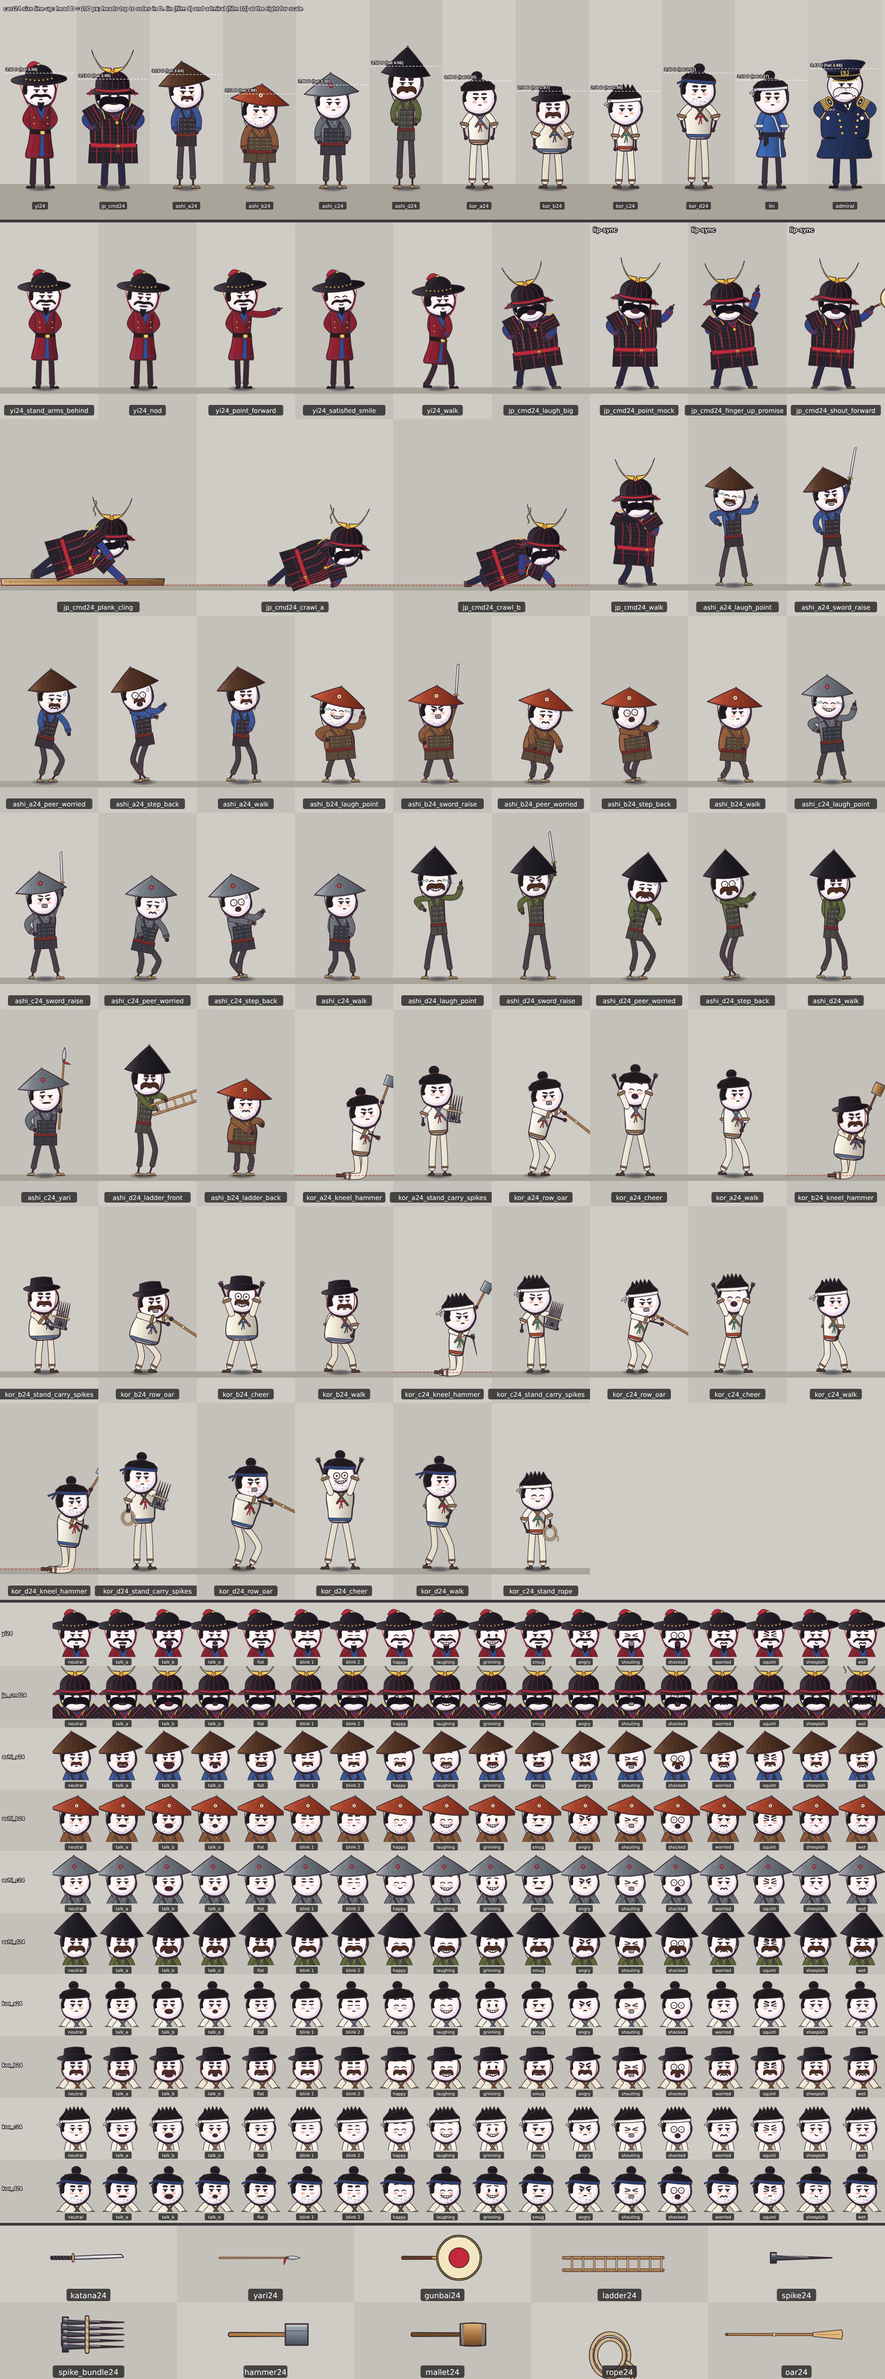
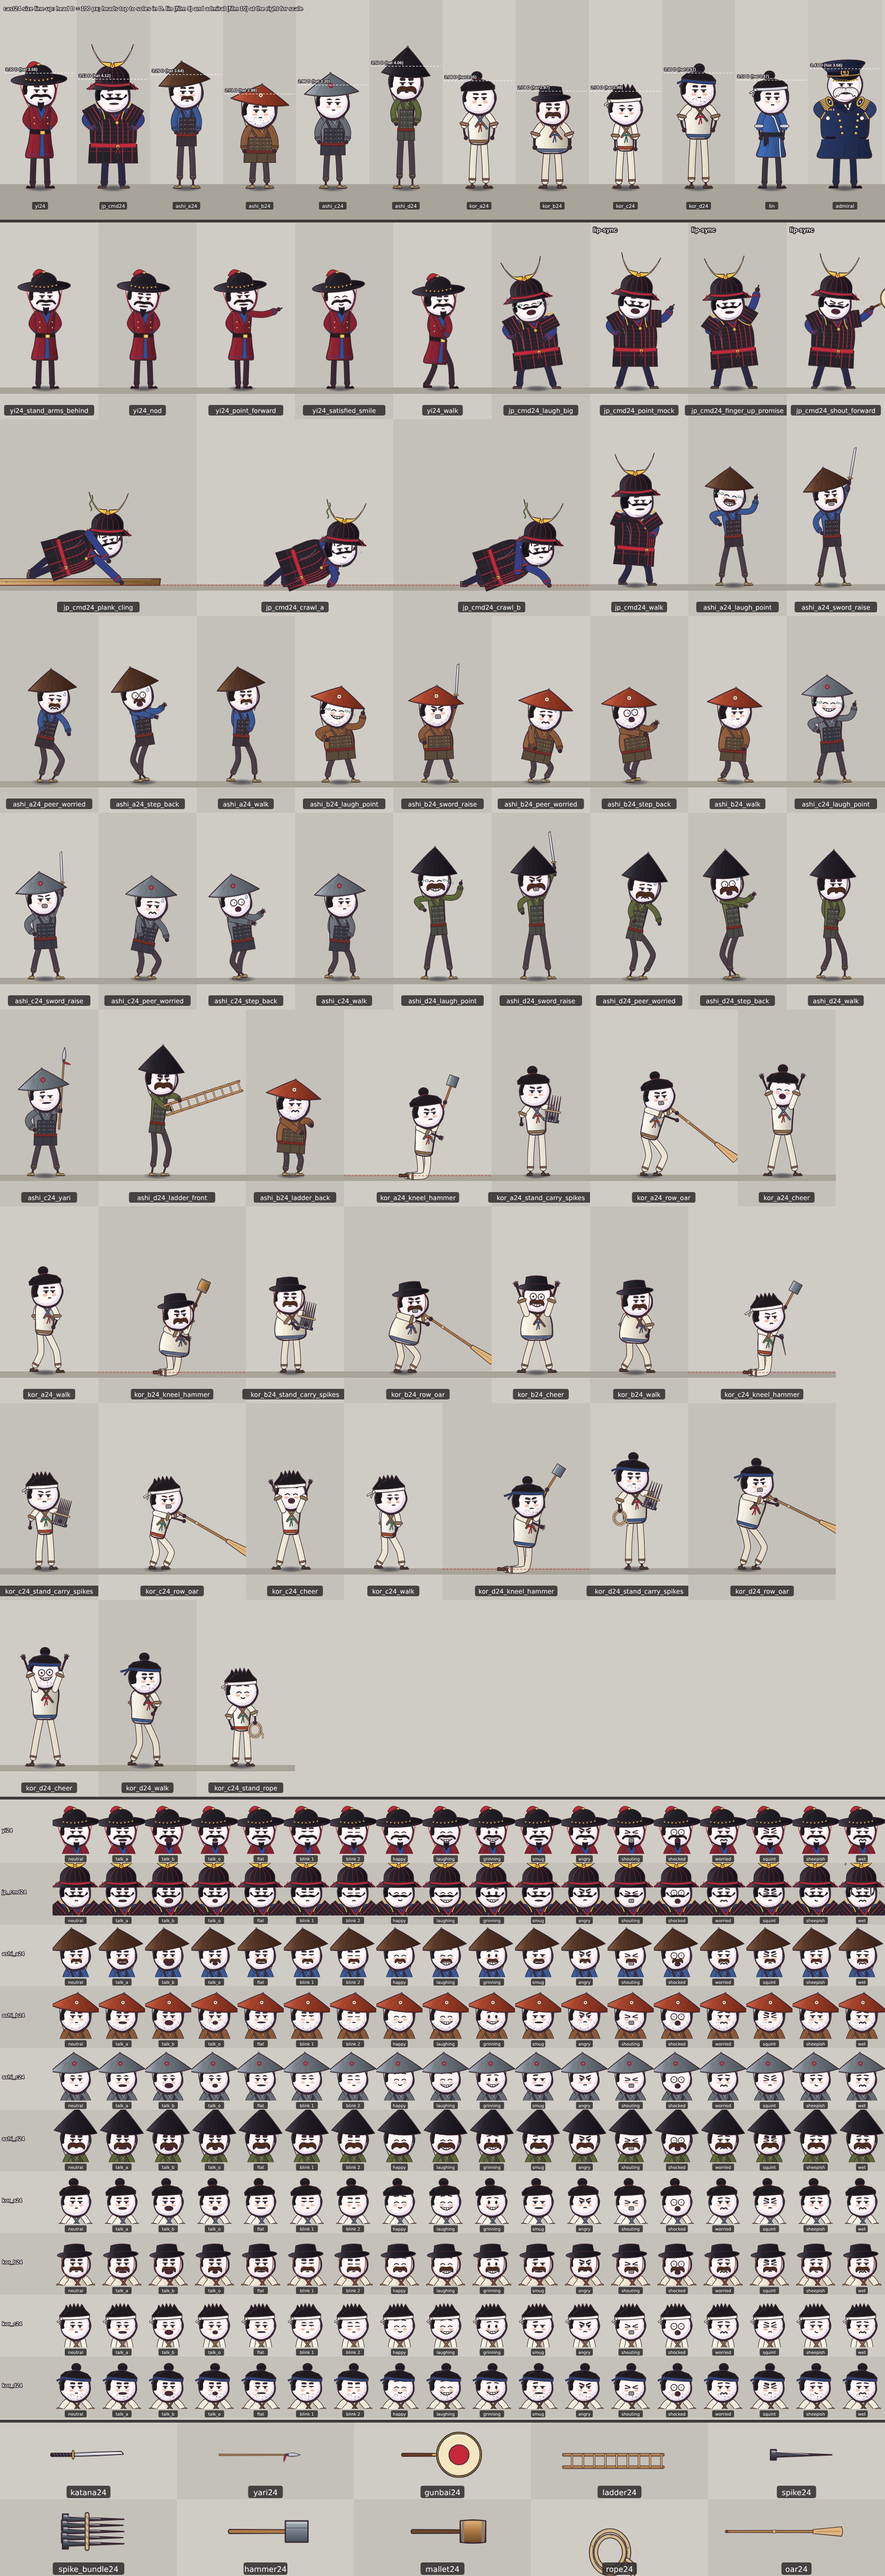
film24: cast24 accepted (commander face fix)
Claude-Session: https://claude.ai/code/session_017iwyCuV9S7aFVU4rtAyyJm

diff --git a/film/v3/cast24/cast24.py b/film/v3/cast24/cast24.py
@@ -39,7 +39,7 @@ _X, _ln, _circ = CE._X, CE._ln, CE._circ
 _f = C6._f
 _lin = C9._lin
 _O24 = {}
-_POSE24 = {"wet": 0.0, "hat_rot": 0.0, "hat_dx": 0.0, "ground": None, "plank": 0.0, "spikes": 5}
+_POSE24 = {"sode": 1.0, "wet": 0.0, "hat_rot": 0.0, "hat_dx": 0.0, "ground": None, "plank": 0.0, "spikes": 5}
 
 cycle, talk_mouth, blink_at, NOD = C6.cycle, C6.talk_mouth, C6.blink_at, C6.NOD
 CYCLE_MODES = C6.CYCLE_MODES
@@ -118,15 +118,15 @@ def _hat_kabuto24(k, C, yaw):
     rot = C["hat_tilt"] + _POSE24["hat_rot"]
     o = ['<g transform="rotate(%.3f)">' % rot]
     g = CE._gradient(k, "kb", dict(light=LACQ["light"], base=LACQ["base"], dark=LACQ["dark"]), x0=-0.6, x1=0.6, mid=0.30)
-    yb = -0.20
+    yb = -0.36
     # neck guard (shikoro) flaring tiers
-    for i, (w, y0, y1) in enumerate(((0.74, -0.24, -0.04), (0.70, -0.20, 0.02))):
+    for i, (w, y0, y1) in enumerate(((0.74, -0.40, -0.18), (0.70, -0.36, -0.14))):
         d = "M%.4f,%.4f L%.4f,%.4f Q%.4f,%.4f %.4f,%.4f L%.4f,%.4f Z" % (dx - 0.47, y0, dx - w, y1 - 0.02, dx, y1 + 0.02 - 0.0, dx + w, y1 - 0.02, dx + 0.47, y0)
         if i == 0:
             o.append('<path d="%s" fill="%s" stroke="%s" stroke-width="0.024" stroke-linejoin="round"/>' % (d, g, k.ink))
     for sx in (-1, 1):
-        o.append('<path d="M%.4f,%.4f L%.4f,%.4f" stroke="%s" stroke-width="0.020" stroke-linecap="round"/>' % (dx + sx * 0.52, -0.16, dx + sx * 0.66, -0.01, k.c(col["lace"])))
-        o.append('<path d="M%.4f,%.4f L%.4f,%.4f" stroke="%s" stroke-width="0.020" stroke-linecap="round"/>' % (dx + sx * 0.60, -0.20, dx + sx * 0.69, -0.04, k.c(col["lace"])))
+        o.append('<path d="M%.4f,%.4f L%.4f,%.4f" stroke="%s" stroke-width="0.020" stroke-linecap="round"/>' % (dx + sx * 0.52, -0.32, dx + sx * 0.66, -0.17, k.c(col["lace"])))
+        o.append('<path d="M%.4f,%.4f L%.4f,%.4f" stroke="%s" stroke-width="0.020" stroke-linecap="round"/>' % (dx + sx * 0.60, -0.36, dx + sx * 0.69, -0.20, k.c(col["lace"])))
     # bowl
     bowl = [(dx - 0.48, yb), (dx - 0.46, yb - 0.26), (dx - 0.28, yb - 0.46), (dx, yb - 0.52), (dx + 0.28, yb - 0.46), (dx + 0.46, yb - 0.26), (dx + 0.48, yb)]
     o.append('<path d="%s Z" fill="%s" stroke="%s" stroke-width="0.026" stroke-linejoin="round"/>' % (P._smooth_open(bowl), g, k.ink))
@@ -162,15 +162,15 @@ def _hat_kabuto24(k, C, yaw):
             for j, (x, ln) in enumerate(((0.40, 0.22), (0.30, 0.30))):
                 o.append('<path d="M%.4f,%.4f q%.4f,%.4f %.4f,%.4f" fill="none" stroke="%s" stroke-width="0.034" stroke-linecap="round"/>'
                          % (dx + sx * x, yb + 0.10, sx * 0.02, ln * 0.5, sx * 0.01, ln * w, k.ink))
-        o.append(_drop(k, dx - 0.30, yb + 0.30 + 0.0, 1.0))
-        o.append(_drop(k, dx + 0.42, 0.06, 0.9))
+        o.append(_drop(k, dx - 0.55, yb + 0.30, 1.0))
+        o.append(_drop(k, dx + 0.60, -0.02, 0.9))
         # seaweed on the crescent
         o.append('<path d="M%.4f,%.4f q0.05,0.10 -0.03,0.18 q-0.07,0.08 0.00,0.16 q0.06,0.06 0.01,0.12" fill="none" stroke="%s" stroke-width="0.034" stroke-linecap="round"/>'
                  % (dx - 0.50, yb - 1.02, k.ink))
         o.append('<path d="M%.4f,%.4f q0.05,0.10 -0.03,0.18 q-0.07,0.08 0.00,0.16 q0.06,0.06 0.01,0.12" fill="none" stroke="%s" stroke-width="0.018" stroke-linecap="round"/>'
                  % (dx - 0.50, yb - 1.02, k.c("#4a8a3a")))
     o.append('</g>')
-    C4._ext_hat(k, C, ((dx - 0.70, 0.0), (dx + 0.70, 0.0), (dx - 0.60, yb - 1.12), (dx + 0.60, yb - 1.12), (dx, yb - 0.55)))
+    C4._ext_hat(k, C, ((dx - 0.70, -0.16), (dx + 0.70, -0.16), (dx - 0.60, yb - 1.12), (dx + 0.60, yb - 1.12), (dx, yb - 0.55)))
     return "".join(o), (dx, yb - 1.12)
 
 
@@ -498,6 +498,18 @@ def _face(k, C, P_, white):
 
 def _moustache(k, mx, my, s=1.0):
     C = CE._CUR[0]
+    if C and C.get("moustache_style") == "handlebar24":
+        col = C["colors"].get("moustache", "#16121a")
+        s = s * C.get("tache_scale", 1.0)
+
+        def H(x, y):
+            return (mx + x * s, my + y * s)
+        pts = [H(0.0, -0.075), H(-0.10, -0.095), H(-0.21, -0.070), H(-0.30, -0.080), H(-0.37, -0.150), H(-0.33, -0.170), H(-0.30, -0.115),
+               H(-0.21, -0.025), H(-0.10, -0.030), H(0.0, -0.040), H(0.10, -0.030), H(0.21, -0.025), H(0.30, -0.115), H(0.33, -0.170),
+               H(0.37, -0.150), H(0.30, -0.080), H(0.21, -0.070), H(0.10, -0.095)]
+        k.ext.append(H(-0.37, -0.17) + (0.03,))
+        k.ext.append(H(0.37, -0.17) + (0.03,))
+        return '<path d="%s" fill="%s" stroke="%s" stroke-width="0.016" stroke-linejoin="round"/>' % (P._smooth_closed(pts), k.c(col), k.ink)
     if not C or C.get("moustache_style") != "neat24":
         return _O24["_moustache"](k, mx, my, s)
     col = C["colors"].get("moustache", "#1e1a1e")
@@ -517,7 +529,9 @@ def _moustache(k, mx, my, s=1.0):
 # ============================================================================= arms: sode (samurai shoulder guards)
 def _sode(k, S, E, C):
     ang = math.degrees(math.atan2(E[1] - S[1], E[0] - S[0]))
-    sz = C.get("sode24", 1.0)
+    sz = C.get("sode24", 1.0) * _POSE24["sode"]
+    if sz < 0.05:
+        return ""
     col = C["colors"]
     o = ['<g transform="translate(%.4f %.4f) rotate(%.3f) scale(%.4f)">' % (S[0], S[1], ang, sz)]
     for i, x in enumerate((0.20, 0.12, 0.04)):
@@ -666,6 +680,7 @@ def _prop(k, kind, H, ang, sc=1.0):
 def _norm(C, pose):
     g = pose.get if isinstance(pose, dict) else (lambda key, d=None: d)
     _POSE24["wet"] = _f(g("wet24"), 0.0, 0.0, 1.0)
+    _POSE24["sode"] = _f(g("sode24"), 1.0, 0.0, 1.0)
     _POSE24["hat_rot"] = _f(g("hat_rot24"), 0.0, -90.0, 90.0)
     _POSE24["hat_dx"] = _f(g("hat_dx24"), 0.0, -0.5, 0.5)
     _POSE24["spikes"] = int(_f(g("spike_n24"), 5.0, 2.0, 8.0))
@@ -760,7 +775,7 @@ NEW_CAST24 = {
         build="stout", seed=91.3,
         torso_w=1.42, torso_h=1.20, profile=C2.PROFILE_ROUND, shift_pow=1.25,
         shoulder=(0.46, 0.44), arm=0.80, hip_x=0.20, leg=1.06, stance=0.07, wide=0.32, limb_w=0.072,
-        eye_y=0.000, brow="stroke", brow_th=0.095, mouth="frown", moustache=True, moustache_style="bushy", tache_scale=1.55, smirk_side=1, cheeks="#ee7a68",
+        eye_y=0.000, brow="stroke", brow_th=0.075, mouth="frown", moustache=True, moustache_style="handlebar24", tache_scale=1.0, smirk_side=1, cheeks="#ee7a68",
         chins=True,
         hat="newsboy", hat_style="kabuto24", hat_tilt=0.0, ear_pencil=False,
         hat_colors=dict(lace="#c4283a"),
@@ -921,7 +936,7 @@ def _story():
     M["jp_cmd24_shout_forward"] = dict(lipsync=True, note="shouting 'Follow them, all of you!', arm out forward with the war fan (gunbai24, anchor gunbai_r = the fan's far edge), "
                                                           "other hand on hip; LIP-SYNC with talk_mouth(). Animate the fan angle -25 <-> -40 for emphasis")
     # lying on the plank
-    base = dict(yaw=0.70, lean=72, head_roll=-12, expr="worried", mouth="smirk", wet24=1.0, hat_rot24=14, hat_dx24=0.05, fx=["sweat", "blush"], t=0.3)
+    base = dict(yaw=0.70, lean=72, head_roll=-12, expr="worried", mouth="smirk", wet24=1.0, hat_rot24=14, hat_dx24=0.05, fx=["sweat", "blush"], t=0.3, sode24=0.0)
     a = _anch(J, base)
     sr, sl = a["shoulder_r"], a["shoulder_l"]
     hx, hy = a["hip"]
@@ -934,8 +949,8 @@ def _story():
     M["jp_cmd24_plank_cling"] = dict(note="lying on his belly along a floating plank, arms around it, wet hair + seaweed on the kabuto, kabuto askew, sheepish. pose key plank24=1 draws the "
                                           "plank (plank_w24 length 5.0 D, plank_top24, plank_dx24). Ground anchor = the plank's UNDERSIDE (the waterline): anchors['ground'] / "
                                           "feet_y. Plank top = anchors['plank_top']. Canvas CANVAS24_POSES")
-    S["jp_cmd24_crawl_a"] = (J, crawl_pose(J, dict(yaw=0.70, lean=70, head_roll=-8, expr="worried", mouth="smirk", wet24=1.0, hat_rot24=14, hat_dx24=0.05, fx=["blush"]), "l"))
-    S["jp_cmd24_crawl_b"] = (J, crawl_pose(J, dict(yaw=0.70, lean=70, head_roll=-8, expr="worried", mouth="smirk", wet24=1.0, hat_rot24=14, hat_dx24=0.05, fx=["blush"]), "r"))
+    S["jp_cmd24_crawl_a"] = (J, crawl_pose(J, dict(yaw=0.70, lean=70, head_roll=-8, expr="worried", mouth="smirk", wet24=1.0, hat_rot24=14, hat_dx24=0.05, fx=["blush"], sode24=0.0), "l"))
+    S["jp_cmd24_crawl_b"] = (J, crawl_pose(J, dict(yaw=0.70, lean=70, head_roll=-8, expr="worried", mouth="smirk", wet24=1.0, hat_rot24=14, hat_dx24=0.05, fx=["blush"], sode24=0.0), "r"))
     M["jp_cmd24_crawl_a"] = dict(note="crawl frame A (head to screen-right): LEFT hand + RIGHT knee forward. Alternate A/B while moving forward (hands and knees on the ground line anchors['ground'])")
     M["jp_cmd24_crawl_b"] = dict(note="crawl frame B: RIGHT hand + LEFT knee forward (the opposite of A)")
     S["jp_cmd24_walk"] = (J, cycle(J, 0.30, "walk", base=dict(expr="smug", pitch=-0.3)))
@@ -1016,7 +1031,7 @@ STORY24, STORY24_META = {}, {}
 WIDE24 = ("row_oar", "ladder")      # poses whose props reach far: own canvas in CANVAS24_POSES
 CANVAS24 = {
     'yi24': (-1.8125, -4.75, 1.8125, 0.125),
-    'jp_cmd24': (-2.25, -4.9375, 2.25, 0.125),
+    'jp_cmd24': (-2.25, -5.125, 2.25, 0.125),
     'ashi_a24': (-1.8125, -4.75, 1.8125, 0.125),
     'ashi_b24': (-1.875, -4.125, 1.875, 0.125),
     'ashi_c24': (-1.875, -4.375, 1.875, 0.125),
@@ -1029,9 +1044,9 @@ CANVAS24 = {
 # per-pose canvases (feet-relative, D): kneel / crawl / plank / long props. For kneel, crawl and the plank, feet = the GROUND anchor (knees and hands
 # on it; the plank's underside), so the canvas bottom is just below it.
 CANVAS24_POSES = {
-    'jp_cmd24_plank_cling': (-2.5, -3.1875, 2.5, 0.6875),
-    'jp_cmd24_crawl_a': (-2.8125, -2.875, 2.8125, 0.9375),
-    'jp_cmd24_crawl_b': (-2.8125, -2.875, 2.8125, 0.9375),
+    'jp_cmd24_plank_cling': (-2.5, -3.3125, 2.5, 0.6875),
+    'jp_cmd24_crawl_a': (-2.75, -3.0625, 2.75, 0.9375),
+    'jp_cmd24_crawl_b': (-2.75, -3.0625, 2.75, 0.9375),
     'ashi_d24_ladder_front': (-2.6875, -4.375, 2.6875, 0.125),
     'ashi_b24_ladder_back': (-1.0, -3.375, 1.0, 0.125),
     'kor_a24_kneel_hammer': (-2.4375, -3.5, 2.4375, 0.1875),

diff --git a/film/v3/cast24/test_cast24.py b/film/v3/cast24/test_cast24.py
@@ -95,6 +95,9 @@ def sec_heights(D=100):
 def sec_poses(D=62, cols=9):
     names = list(cast24.STORY24)
     wide = {"jp_cmd24_plank_cling": 2, "jp_cmd24_crawl_a": 2, "jp_cmd24_crawl_b": 2}
+    for n in names:
+        if "kneel" in n or "row_oar" in n or "ladder_front" in n:
+            wide[n] = 1.5
     cw, ch = int(3.0 * D), int(6.0 * D)
     # lay out with variable widths
     x = y = 0
@@ -114,7 +117,7 @@ def sec_poses(D=62, cols=9):
         ground = y0 + ch - int(0.95 * D)
         o.append('<rect x="%d" y="%d" width="%d" height="%d" fill="%s"/>' % (x0, ground - int(0.04 * D), w, int(0.2 * D), GROUND))
         o.append('<svg x="%d" y="%d" width="%d" height="%d" viewBox="%d %d %d %d">' % (x0, y0, w, ch - int(0.6 * D), x0, y0, w, ch - int(0.6 * D)))
-        gx = x0 + w * (0.42 if w > cw else 0.46)
+        gx = x0 + w * (0.40 if w > cw else 0.46)
         g, f = _fig(cast, dict(pose, t=0.3), "p%d" % i, D, gx, ground, shadow=0.0 if (pose.get("plank24") or pose.get("ground24") is not None) else 0.9)
         o.append(g + "</svg>")
         meta = cast24.STORY24_META.get(n, {})

diff --git a/film/v3/cast24/API.md b/film/v3/cast24/API.md
@@ -20,7 +20,7 @@ Everything in `v2/puppet/API.md` and `v3/cast10/API.md` still applies (pose keys
 | key | height | build / look |
 |---|---|---|
 | `yi24` | 3.30 (3.58) | slim, tall, calm. Maroon quilted coat-armour with brass studs, blue lining at collar / cuffs / front opening, dark belt with brass plate, knee-length skirt. Black wide-brim hat with brass-bead band, red plume and chin cord. Neat thin moustache, small goatee |
-| `jp_cmd24` | 3.13 (3.96) | stout, big belly. Black lacquer plate armour with red lacing, red cord belt, big sode shoulder guards, hip plates. Kabuto with a tall gold crescent. Huge bushy black moustache, thick angry brows, double chin |
+| `jp_cmd24` | 3.13 (3.96) | stout, big belly. Black lacquer plate armour with red lacing, red cord belt, big sode shoulder guards, hip plates. Kabuto with a tall gold crescent. Kabuto sits high (brim above the brows); a small thin handlebar moustache above the mouth (mouth fully visible), thick angry brows, double chin |
 | `ashi_a24` | 3.26 (3.64) | tall slim, blue kimono, dark-brown cone hat, thin black moustache |
 | `ashi_b24` | 2.71 (2.98) | short and round, brown kimono, red-brown wide cone with a crest, grey stubble |
 | `ashi_c24` | 2.96 (3.30) | medium, grey kimono, pale grey cone with a red crest, young clean face, round brows |
@@ -36,6 +36,7 @@ All ashigaru wear a riveted chest plate (do) with a short plate skirt over the k
 
 | key | effect |
 |---|---|
+| `sode24` 0..1 | scales the jp_cmd24 shoulder guards (0 in the lying / crawl poses so the face is clear) |
 | `wet24` 0..1 | wet look: kabuto locks + drips + seaweed on the crescent (jp_cmd24); plastered fringe + drips (jp_cmd24 only) |
 | `hat_rot24` deg, `hat_dx24` D | kabuto askew (rotate / shift) |
 | `ground24` y (head frame) | sets `feet_y`, `anchors["feet"]` and `anchors["ground"]` to this line (kneel / crawl) |
@@ -80,7 +81,7 @@ Lip-sync: only the three jp_cmd24 poses have `STORY24_META[name]["lipsync"] = Tr
 
 ## Canvases (feet-relative, D)
 
-`CANVAS24[member]` (registered in `cast_ext.CANVAS`): yi24 (-1.8125, -4.75, 1.8125, 0.125); jp_cmd24 (-2.25, -4.9375, 2.25, 0.125); ashi_a (-1.8125, -4.75, ..); ashi_b (-1.875, -4.125); ashi_c (-1.875, -4.375); ashi_d (-1.8125, -5.0625); kor_a (-1.8125, -4.5); kor_b (-1.875, -4.1875); kor_c (-1.8125, -4.1875); kor_d (-1.875, -4.6875). `CANVAS24_POSES[pose_name]` for the poses that exceed them: `jp_cmd24_plank_cling`, `jp_cmd24_crawl_a/_b`, the four `kor_*_kneel_hammer` (bottom 0.1875 below the ground line), the four `kor_*_row_oar` (+-3 wide), `ashi_d24_ladder_front`, `ashi_b24_ladder_back`. `python3 test_cast24.py canvas` checks all of them, mirrored too, plus head_flip (57 poses, 0 problems).
+`CANVAS24[member]` (registered in `cast_ext.CANVAS`): yi24 (-1.8125, -4.75, 1.8125, 0.125); jp_cmd24 (-2.25, -5.125, 2.25, 0.125); ashi_a (-1.8125, -4.75, ..); ashi_b (-1.875, -4.125); ashi_c (-1.875, -4.375); ashi_d (-1.8125, -5.0625); kor_a (-1.8125, -4.5); kor_b (-1.875, -4.1875); kor_c (-1.8125, -4.1875); kor_d (-1.875, -4.6875). `CANVAS24_POSES[pose_name]` for the poses that exceed them: `jp_cmd24_plank_cling`, `jp_cmd24_crawl_a/_b`, the four `kor_*_kneel_hammer` (bottom 0.1875 below the ground line), the four `kor_*_row_oar` (+-3 wide), `ashi_d24_ladder_front`, `ashi_b24_ladder_back`. `python3 test_cast24.py canvas` checks all of them, mirrored too, plus head_flip (57 poses, 0 problems).
 
 ## Files and QA
 
